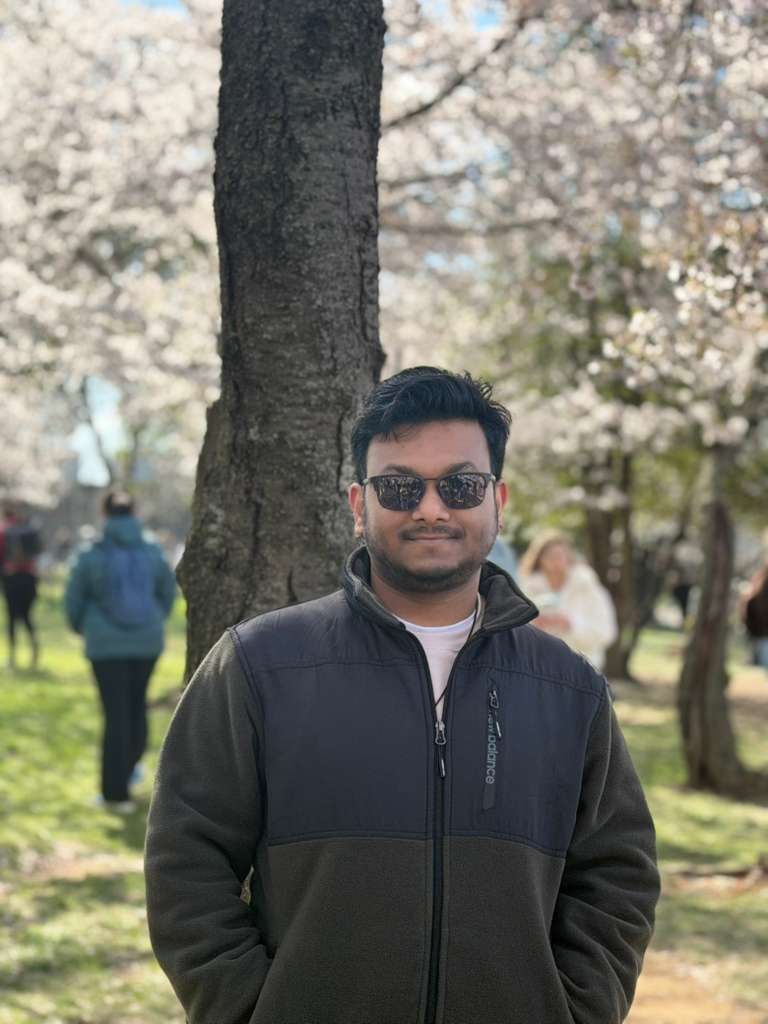
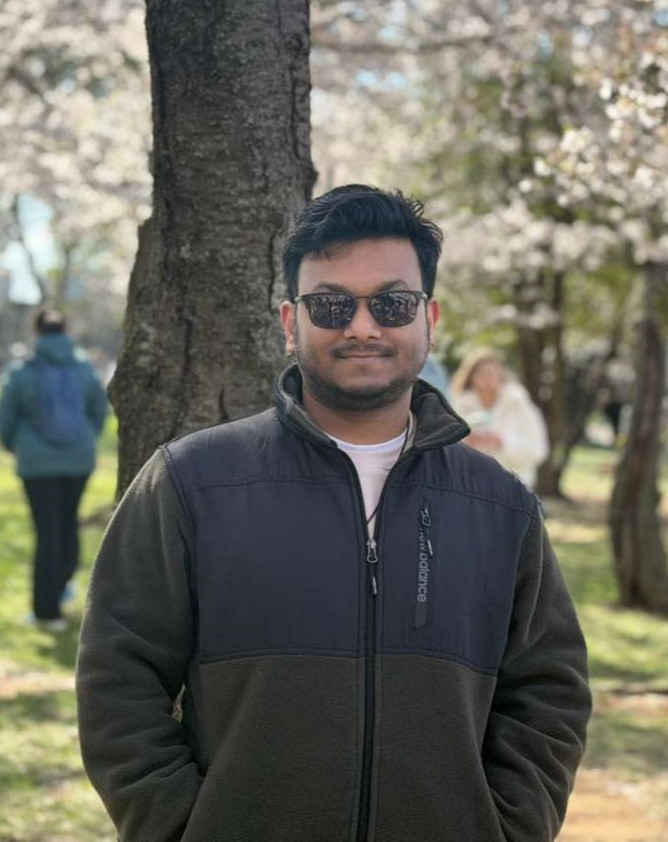
dp change

diff --git a/pages/about.html b/pages/about.html
@@ -3,7 +3,7 @@
 
     <!-- LEFT SIDEBAR -->
     <div class="sidebar">
-      <img src="./assets/documents/imgs/sudipta_latest.jpg" alt="Sudipta Mondal"
+      <img src="./assets/documents/imgs/sudipta_latest.jpeg" alt="Sudipta Mondal"
            onerror="this.style.background='#e8f5f3';this.style.minHeight='220px'" />
 
       <div class="soc-links">
